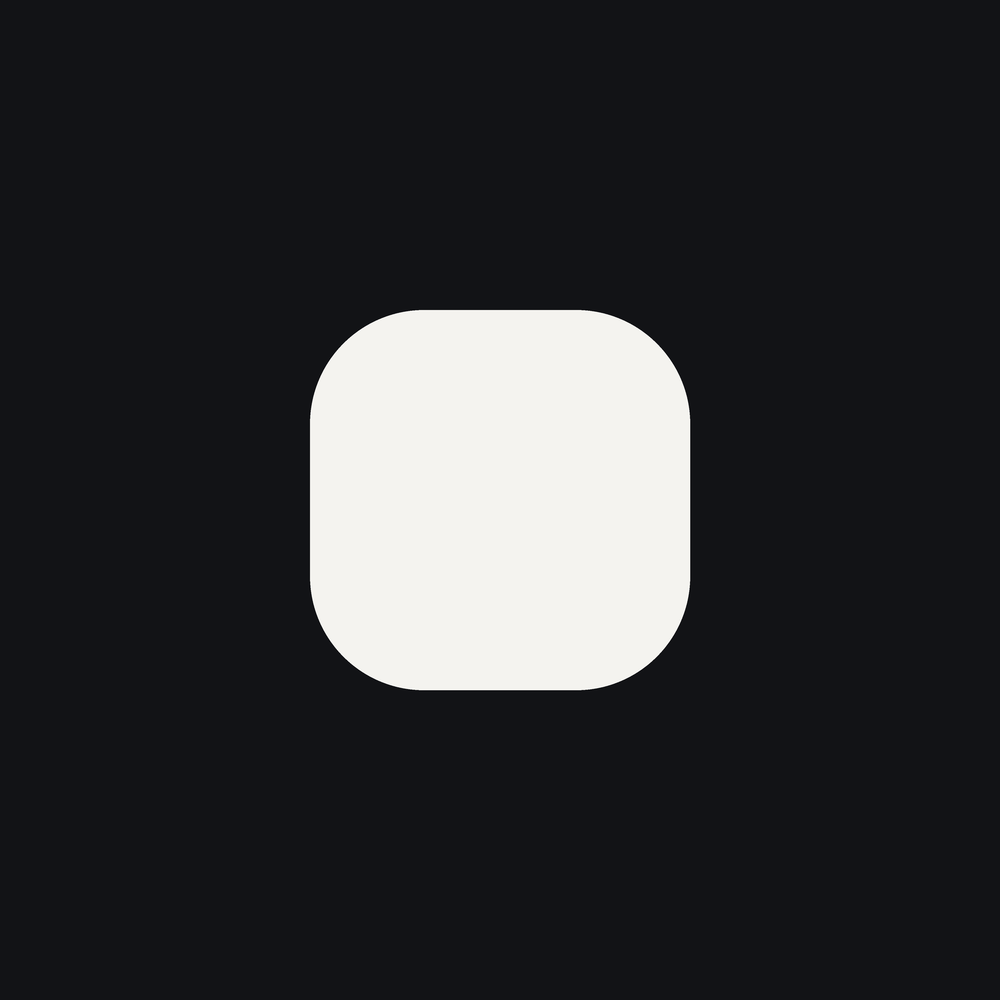
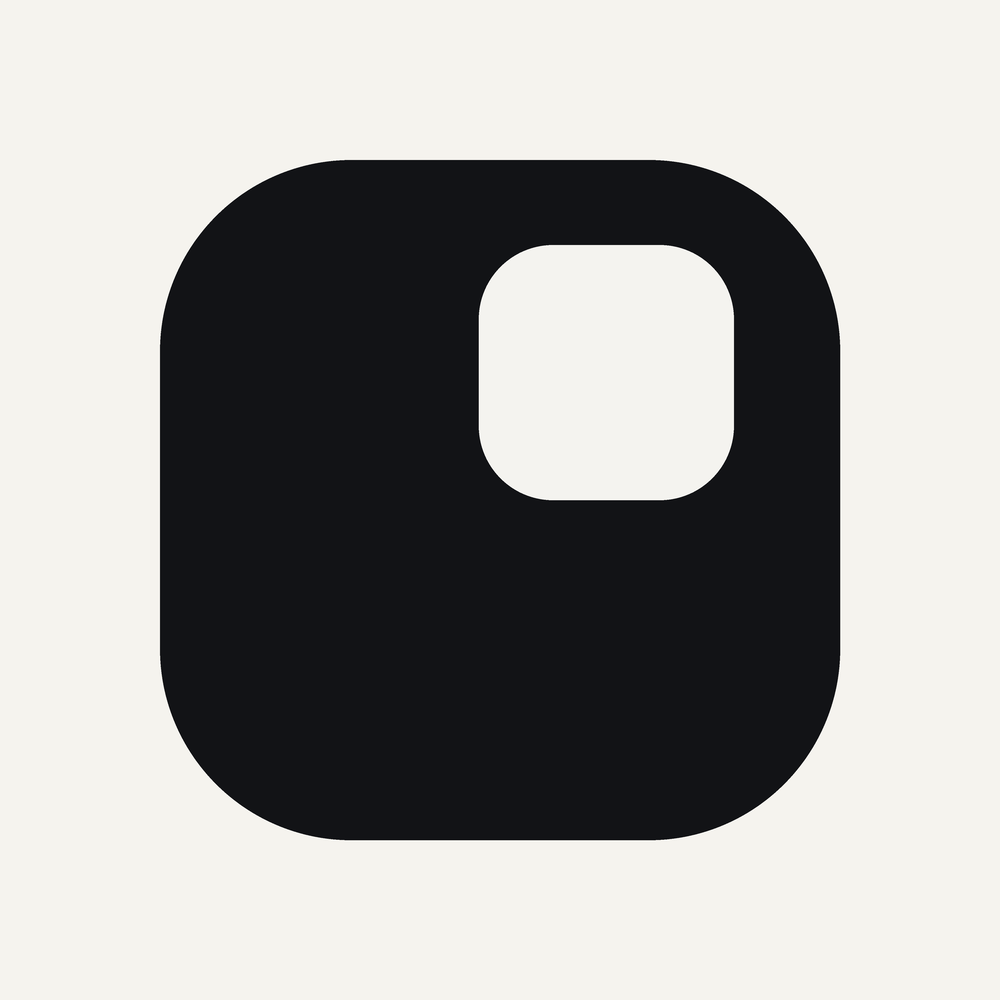
brand: mark inner square to top-right (per approved sketch)
- Composed square-nested-top-right instead of centered; across Landing/Docs/
  Legal/Logo/pitch marks, favicon.svg, all icon PNGs + ico, OG card
- Regenerate X avatar (paper field + centered mark) + banner

diff --git a/app/src/app/opengraph-image.tsx b/app/src/app/opengraph-image.tsx
@@ -42,11 +42,11 @@ export default function OpenGraphImage() {
               <div
                 style={{
                   position: "absolute",
-                  left: 20,
-                  top: 20,
-                  width: 20,
-                  height: 20,
-                  borderRadius: 6,
+                  left: 28,
+                  top: 8,
+                  width: 22,
+                  height: 22,
+                  borderRadius: 7,
                   background: "#F4F3EF",
                   display: "flex",
                 }}

diff --git a/app/src/components/Logo.tsx b/app/src/components/Logo.tsx
@@ -15,7 +15,7 @@ export function Logo({ className = "" }: { className?: string }) {
         className="shrink-0"
       >
         <rect width="32" height="32" rx="9" fill="#121316" />
-        <rect x="11" y="11" width="10" height="10" rx="3" fill="#F4F3EF" />
+        <rect x="15" y="4" width="12" height="12" rx="3.5" fill="#F4F3EF" />
       </svg>
       <span className="text-lg font-semibold tracking-tight text-foreground">
         Gloam

diff --git a/app/src/components/DocsLayout.tsx b/app/src/components/DocsLayout.tsx
@@ -63,7 +63,7 @@ function Mark({ size = 20 }: { size?: number }) {
       className="shrink-0"
     >
       <rect width="32" height="32" rx="9" fill="#121316" />
-      <rect x="11" y="11" width="10" height="10" rx="3" fill="#F4F3EF" />
+      <rect x="15" y="4" width="12" height="12" rx="3.5" fill="#F4F3EF" />
     </svg>
   );
 }

diff --git a/app/src/components/Landing.tsx b/app/src/components/Landing.tsx
@@ -44,7 +44,7 @@ function Mark({ size = 22 }: { size?: number }) {
       className="shrink-0"
     >
       <rect width="32" height="32" rx="9" fill="#121316" />
-      <rect x="11" y="11" width="10" height="10" rx="3" fill="#F4F3EF" />
+      <rect x="15" y="4" width="12" height="12" rx="3.5" fill="#F4F3EF" />
     </svg>
   );
 }

diff --git a/app/src/components/LegalLayout.tsx b/app/src/components/LegalLayout.tsx
@@ -10,7 +10,7 @@ function Mark({ size = 20 }: { size?: number }) {
       className="shrink-0"
     >
       <rect width="32" height="32" rx="9" fill="#121316" />
-      <rect x="11" y="11" width="10" height="10" rx="3" fill="#F4F3EF" />
+      <rect x="15" y="4" width="12" height="12" rx="3.5" fill="#F4F3EF" />
     </svg>
   );
 }

diff --git a/app/src/app/pitch/page.tsx b/app/src/app/pitch/page.tsx
@@ -14,7 +14,7 @@ function Mark({ size }: { size: number }) {
       style={{ flex: "none" }}
     >
       <rect width="32" height="32" rx="9" fill="#121316" />
-      <rect x="11" y="11" width="10" height="10" rx="3" fill="#f4f3ef" />
+      <rect x="15" y="4" width="12" height="12" rx="3.5" fill="#f4f3ef" />
     </svg>
   );
 }
